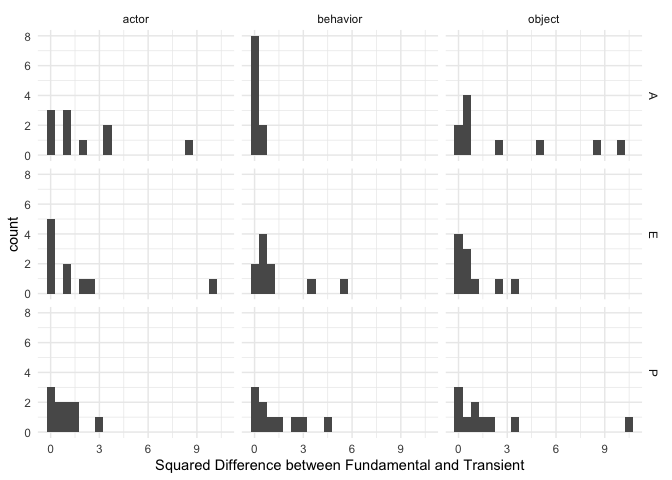
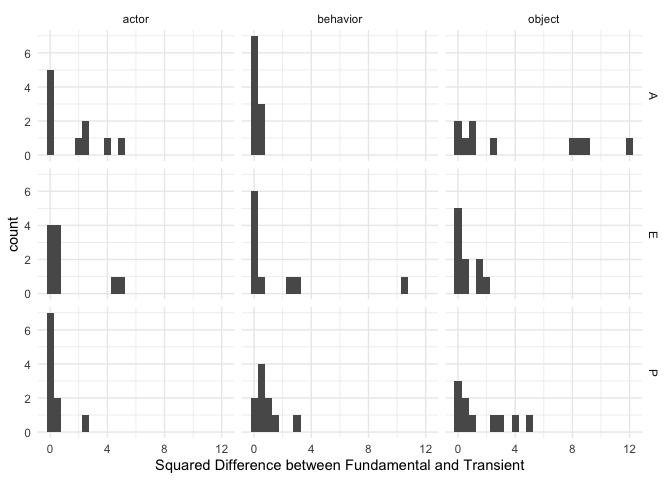
adding event column

diff --git a/README.md b/README.md
@@ -77,12 +77,12 @@ library(tidyverse)
 us_2015 <- epa_subset(dataset = "usfullsurveyor2015")
 
 #make a dataframe of events 
-set.seed(729)
+set.seed(369)
 events_wide <- tibble(actor = sample(us_2015$term[us_2015$component == "identity"], 10),
                  behavior = sample(us_2015$term[us_2015$component == "behavior"], 10),
                  object = sample(us_2015$term[us_2015$component == "identity"], 10))
 
-set.seed(729)
+set.seed(369)
 events_long <- tibble(id = rep(1:10, 3),
                       term = c(sample(us_2015$term[us_2015$component == "identity"], 10),
                                sample(us_2015$term[us_2015$component == "behavior"], 10),
@@ -92,24 +92,24 @@ events_long <- tibble(id = rep(1:10, 3),
 
 head(events_wide)
 #> # A tibble: 6 × 3
-#>   actor          behavior        object      
-#>   <chr>          <chr>           <chr>       
-#> 1 authority      hide_from       student     
-#> 2 mormon         dine_with       underdog    
-#> 3 alcoholic      fondle          peer        
-#> 4 civil_engineer fire_from_a_job ticket_taker
-#> 5 brain          boss            negotiator  
-#> 6 bookkeeper     rebel_against   black
+#>   actor      behavior  object                      
+#>   <chr>      <chr>     <chr>                       
+#> 1 landlady   fluster   introvert                   
+#> 2 virgin     shield    neurotic                    
+#> 3 chatterbox educate   myself_as_i_would_like_to_be
+#> 4 shop_clerk entreat   best_man                    
+#> 5 grind      aggravate machine_repairer            
+#> 6 asian_man  berate    chatterbox
 head(events_long)
 #> # A tibble: 6 × 3
 #>      id term      element 
 #>   <int> <chr>     <chr>   
-#> 1     1 authority actor   
-#> 2     1 hide_from behavior
-#> 3     1 student   object  
-#> 4     2 mormon    actor   
-#> 5     2 dine_with behavior
-#> 6     2 underdog  object
+#> 1     1 landlady  actor   
+#> 2     1 fluster   behavior
+#> 3     1 introvert object  
+#> 4     2 virgin    actor   
+#> 5     2 shield    behavior
+#> 6     2 neurotic  object
 ```
 
 The next step is to augment your events with the corresponding EPA
@@ -130,15 +130,15 @@ analysis_df <- reshape_events_df(df = events_wide,
 #> Joining, by = c("term", "component")
 
 head(analysis_df)
-#> # A tibble: 6 × 6
-#>   event_id element  term      component dimension estimate
-#>      <int> <chr>    <chr>     <chr>     <chr>        <dbl>
-#> 1        1 actor    authority identity  E             0.7 
-#> 2        1 actor    authority identity  P             2.99
-#> 3        1 actor    authority identity  A             0.85
-#> 4        1 behavior hide_from behavior  E            -0.82
-#> 5        1 behavior hide_from behavior  P            -0.86
-#> 6        1 behavior hide_from behavior  A            -1.37
+#> # A tibble: 6 × 7
+#>   event_id event                      element term  component dimension estimate
+#>      <int> <chr>                      <chr>   <chr> <chr>     <chr>        <dbl>
+#> 1        1 landlady fluster introvert actor   land… identity  E             0.08
+#> 2        1 landlady fluster introvert actor   land… identity  P             1.68
+#> 3        1 landlady fluster introvert actor   land… identity  A             0.59
+#> 4        1 landlady fluster introvert behavi… flus… behavior  E            -0.32
+#> 5        1 landlady fluster introvert behavi… flus… behavior  P             1.2 
+#> 6        1 landlady fluster introvert behavi… flus… behavior  A             0.81
 
 analysis_df <- reshape_events_df(df = events_long,
                                  df_format = "long",
@@ -148,15 +148,16 @@ analysis_df <- reshape_events_df(df = events_long,
 #> Joining, by = c("term", "component")
 
 head(analysis_df)
-#> # A tibble: 6 × 6
-#>   term      element  component event_id dimension estimate
-#>   <chr>     <chr>    <chr>        <int> <chr>        <dbl>
-#> 1 authority actor    identity         1 E             0.7 
-#> 2 authority actor    identity         1 P             2.99
-#> 3 authority actor    identity         1 A             0.85
-#> 4 hide_from behavior behavior         1 E            -0.82
-#> 5 hide_from behavior behavior         1 P            -0.86
-#> 6 hide_from behavior behavior         1 A            -1.37
+#> # A tibble: 6 × 7
+#> # Groups:   event_id [1]
+#>   term     element  component event_id event                  dimension estimate
+#>   <chr>    <chr>    <chr>        <int> <chr>                  <chr>        <dbl>
+#> 1 landlady actor    identity         1 landlady fluster intr… E             0.08
+#> 2 landlady actor    identity         1 landlady fluster intr… P             1.68
+#> 3 landlady actor    identity         1 landlady fluster intr… A             0.59
+#> 4 fluster  behavior behavior         1 landlady fluster intr… E            -0.32
+#> 5 fluster  behavior behavior         1 landlady fluster intr… P             1.2 
+#> 6 fluster  behavior behavior         1 landlady fluster intr… A             0.81
 ```
 
 After reshaping your events, you now have a dataframe with the
@@ -178,7 +179,7 @@ us2010 equation averaged across genders to match the dictionary.
 
 ``` r
 nested_analysis_df <- analysis_df %>% 
-                      group_by(event_id) %>% 
+                      group_by(event_id, event) %>% 
                       nest() %>% 
                       mutate(eq_info = "us2010_average")
 ```
@@ -191,26 +192,24 @@ information inside the nested dataframe.
 
 ``` r
 results_df <- nested_analysis_df %>% 
-              mutate(deflection = map2(data, eq_info, get_deflection))
+              mutate(deflection = map2_dbl(data, eq_info, get_deflection))
 
-results_df %>% unnest() %>% select(event_id, term, deflection) %>% distinct()
-#> Warning: `cols` is now required when using unnest().
-#> Please use `cols = c(data, deflection)`
-#> # A tibble: 30 × 3
-#> # Groups:   event_id [10]
-#>    event_id term           deflection
-#>       <int> <chr>               <dbl>
-#>  1        1 authority           13.3 
-#>  2        1 hide_from           13.3 
-#>  3        1 student             13.3 
-#>  4        2 mormon               5.06
-#>  5        2 dine_with            5.06
-#>  6        2 underdog             5.06
-#>  7        3 alcoholic            9.00
-#>  8        3 fondle               9.00
-#>  9        3 peer                 9.00
-#> 10        4 civil_engineer      13.0 
-#> # … with 20 more rows
+results_df %>% select(event, deflection)
+#> Adding missing grouping variables: `event_id`
+#> # A tibble: 10 × 3
+#> # Groups:   event_id, event [10]
+#>    event_id event                                           deflection
+#>       <int> <chr>                                                <dbl>
+#>  1        1 landlady fluster introvert                           2.18 
+#>  2        2 virgin shield neurotic                               6.93 
+#>  3        3 chatterbox educate myself_as_i_would_like_to_be     20.5  
+#>  4        4 shop_clerk entreat best_man                          0.994
+#>  5        5 grind aggravate machine_repairer                    17.1  
+#>  6        6 asian_man berate chatterbox                         20.9  
+#>  7        7 crybaby harass sleuth                               19.8  
+#>  8        8 street_musician glorify mugger                       1.86 
+#>  9        9 chaplain chastise scoundrel                         22.8  
+#> 10       10 artist like newcomer                                12.2
 ```
 
 ### Deflection
@@ -236,21 +235,23 @@ nested_analysis_df %>%
     unnest(trans_imp) %>% 
     mutate(difference = estimate - trans_imp,
            sqd_difference = difference^2) %>% 
-    group_by(event_id) %>% 
+    group_by(event_id, event) %>% 
     summarise(deflection = sum(sqd_difference))
-#> # A tibble: 10 × 2
-#>    event_id deflection
-#>       <int>      <dbl>
-#>  1        1      13.3 
-#>  2        2       5.06
-#>  3        3       9.00
-#>  4        4      13.0 
-#>  5        5      37.1 
-#>  6        6      13.2 
-#>  7        7      12.4 
-#>  8        8      23.7 
-#>  9        9       2.51
-#> 10       10       2.43
+#> `summarise()` has grouped output by 'event_id'. You can override using the `.groups` argument.
+#> # A tibble: 10 × 3
+#> # Groups:   event_id [10]
+#>    event_id event                                           deflection
+#>       <int> <chr>                                                <dbl>
+#>  1        1 landlady fluster introvert                           2.18 
+#>  2        2 virgin shield neurotic                               6.93 
+#>  3        3 chatterbox educate myself_as_i_would_like_to_be     20.5  
+#>  4        4 shop_clerk entreat best_man                          0.994
+#>  5        5 grind aggravate machine_repairer                    17.1  
+#>  6        6 asian_man berate chatterbox                         20.9  
+#>  7        7 crybaby harass sleuth                               19.8  
+#>  8        8 street_musician glorify mugger                       1.86 
+#>  9        9 chaplain chastise scoundrel                         22.8  
+#> 10       10 artist like newcomer                                12.2
 ```
 
 ### Element Deflection
@@ -279,30 +280,30 @@ close as possible to the fundamental sentiments. The function
 nested_analysis_df %>% 
   mutate(opt_beh = map2(data, eq_info, optimal_behavior)) %>% 
   unnest(opt_beh)
-#> # A tibble: 20 × 7
-#> # Groups:   event_id [10]
-#>    event_id data             eq_info          opt_E   opt_P  opt_A term  
-#>       <int> <list>           <chr>            <dbl>   <dbl>  <dbl> <chr> 
-#>  1        1 <tibble [9 × 5]> us2010_average  1.48    1.88    1.64  actor 
-#>  2        1 <tibble [9 × 5]> us2010_average  1.76   -0.0444  0.593 object
-#>  3        2 <tibble [9 × 5]> us2010_average -0.112   0.510  -0.483 actor 
-#>  4        2 <tibble [9 × 5]> us2010_average -0.135   0.0444 -0.251 object
-#>  5        3 <tibble [9 × 5]> us2010_average -0.491  -1.67    1.17  actor 
-#>  6        3 <tibble [9 × 5]> us2010_average  0.799   1.43    0.947 object
-#>  7        4 <tibble [9 × 5]> us2010_average  2.08    1.13    0.387 actor 
-#>  8        4 <tibble [9 × 5]> us2010_average  0.271   0.462   0.628 object
-#>  9        5 <tibble [9 × 5]> us2010_average  4.10    2.11    2.65  actor 
-#> 10        5 <tibble [9 × 5]> us2010_average  3.02    1.78    1.90  object
-#> 11        6 <tibble [9 × 5]> us2010_average  1.97   -0.175  -1.39  actor 
-#> 12        6 <tibble [9 × 5]> us2010_average  0.0478  1.79    0.322 object
-#> 13        7 <tibble [9 × 5]> us2010_average  0.0677  0.0705 -0.454 actor 
-#> 14        7 <tibble [9 × 5]> us2010_average -1.28   -0.507   0.736 object
-#> 15        8 <tibble [9 × 5]> us2010_average  2.30    1.20    0.236 actor 
-#> 16        8 <tibble [9 × 5]> us2010_average  0.846   0.955   3.08  object
-#> 17        9 <tibble [9 × 5]> us2010_average  0.998   1.16    1.24  actor 
-#> 18        9 <tibble [9 × 5]> us2010_average  0.868   0.308   1.27  object
-#> 19       10 <tibble [9 × 5]> us2010_average  1.13    0.528   0.378 actor 
-#> 20       10 <tibble [9 × 5]> us2010_average  0.661   0.894   0.716 object
+#> # A tibble: 20 × 8
+#> # Groups:   event_id, event [10]
+#>    event_id event               data     eq_info     opt_E   opt_P   opt_A term 
+#>       <int> <chr>               <list>   <chr>       <dbl>   <dbl>   <dbl> <chr>
+#>  1        1 landlady fluster i… <tibble… us2010_a…  0.784   1.53    0.0992 actor
+#>  2        1 landlady fluster i… <tibble… us2010_a…  0.393  -0.299  -1.94   obje…
+#>  3        2 virgin shield neur… <tibble… us2010_a…  0.605   0.733  -1.05   actor
+#>  4        2 virgin shield neur… <tibble… us2010_a… -0.983  -0.217   0.225  obje…
+#>  5        3 chatterbox educate… <tibble… us2010_a… -0.0298 -0.274   2.78   actor
+#>  6        3 chatterbox educate… <tibble… us2010_a…  1.37    2.59    1.58   obje…
+#>  7        4 shop_clerk entreat… <tibble… us2010_a…  0.583   0.0312  0.319  actor
+#>  8        4 shop_clerk entreat… <tibble… us2010_a…  0.784   1.60    0.431  obje…
+#>  9        5 grind aggravate ma… <tibble… us2010_a…  0.201  -0.622   0.819  actor
+#> 10        5 grind aggravate ma… <tibble… us2010_a…  0.753   2.12    0.741  obje…
+#> 11        6 asian_man berate c… <tibble… us2010_a…  1.56   -0.0484  0.398  actor
+#> 12        6 asian_man berate c… <tibble… us2010_a…  0.299   1.47    2.81   obje…
+#> 13        7 crybaby harass sle… <tibble… us2010_a…  1.67   -0.889   1.70   actor
+#> 14        7 crybaby harass sle… <tibble… us2010_a…  0.102   0.467  -1.75   obje…
+#> 15        8 street_musician gl… <tibble… us2010_a… -0.0732 -0.114   1.62   actor
+#> 16        8 street_musician gl… <tibble… us2010_a… -1.21    0.234   0.688  obje…
+#> 17        9 chaplain chastise … <tibble… us2010_a…  1.59    1.19   -0.385  actor
+#> 18        9 chaplain chastise … <tibble… us2010_a…  0.359   0.170   1.77   obje…
+#> 19       10 artist like newcom… <tibble… us2010_a… -0.411   1.04   -0.696  actor
+#> 20       10 artist like newcom… <tibble… us2010_a…  0.0461  0.303  -1.33   obje…
 ```
 
 ### Actor and Object Reidentification
@@ -317,20 +318,20 @@ nested_analysis_df %>%
   mutate(new_actor_id = map2(data, eq_info, reidentify_actor),
          new_object_id = map2(data, eq_info, reidentify_object)) %>% 
   unnest(new_actor_id)
-#> # A tibble: 10 × 7
-#> # Groups:   event_id [10]
-#>    event_id data             eq_info              E      P      A new_object_id 
-#>       <int> <list>           <chr>            <dbl>  <dbl>  <dbl> <list>        
-#>  1        1 <tibble [9 × 5]> us2010_average -1.40   -1.07  -1.53  <tibble [1 × …
-#>  2        2 <tibble [9 × 5]> us2010_average -0.0157  0.919 -0.313 <tibble [1 × …
-#>  3        3 <tibble [9 × 5]> us2010_average  0.126   0.710 -0.169 <tibble [1 × …
-#>  4        4 <tibble [9 × 5]> us2010_average -2.72    2.15   1.33  <tibble [1 × …
-#>  5        5 <tibble [9 × 5]> us2010_average -2.99    1.62   2.12  <tibble [1 × …
-#>  6        6 <tibble [9 × 5]> us2010_average  0.0895  1.75   2.13  <tibble [1 × …
-#>  7        7 <tibble [9 × 5]> us2010_average -0.0565  2.73   1.58  <tibble [1 × …
-#>  8        8 <tibble [9 × 5]> us2010_average -3.57    1.73   3.15  <tibble [1 × …
-#>  9        9 <tibble [9 × 5]> us2010_average  1.33    0.803 -0.694 <tibble [1 × …
-#> 10       10 <tibble [9 × 5]> us2010_average  1.78    1.66  -0.394 <tibble [1 × …
+#> # A tibble: 10 × 8
+#> # Groups:   event_id, event [10]
+#>    event_id event           data     eq_info        E     P      A new_object_id
+#>       <int> <chr>           <list>   <chr>      <dbl> <dbl>  <dbl> <list>       
+#>  1        1 landlady flust… <tibble… us2010_a…  0.275 1.27   1.06  <tibble [1 ×…
+#>  2        2 virgin shield … <tibble… us2010_a…  0.262 2.65   1.03  <tibble [1 ×…
+#>  3        3 chatterbox edu… <tibble… us2010_a…  1.15  2.79  -0.277 <tibble [1 ×…
+#>  4        4 shop_clerk ent… <tibble… us2010_a…  1.01  0.376 -0.250 <tibble [1 ×…
+#>  5        5 grind aggravat… <tibble… us2010_a… -1.69  0.645  2.70  <tibble [1 ×…
+#>  6        6 asian_man bera… <tibble… us2010_a… -2.90  0.756  2.86  <tibble [1 ×…
+#>  7        7 crybaby harass… <tibble… us2010_a…  0.480 0.428  2.35  <tibble [1 ×…
+#>  8        8 street_musicia… <tibble… us2010_a…  0.578 0.850  1.52  <tibble [1 ×…
+#>  9        9 chaplain chast… <tibble… us2010_a… -2.84  0.904  1.89  <tibble [1 ×…
+#> 10       10 artist like ne… <tibble… us2010_a… -1.02  1.60   0.185 <tibble [1 ×…
 ```
 
 ### Closest Term
@@ -349,19 +350,19 @@ nested_analysis_df %>%
   mutate(term = closest_term(E, P, A, dictionary_key = "usfullsurveyor2015", gender = "average",
                term_typ = "identity", num_terms = 1)) %>% 
   unnest(cols = c(term))
-#> # A tibble: 10 × 12
-#> # Groups:   event_id [10]
-#>    event_id data   eq_info        E      P      A new_object_id term_name term_E
-#>       <int> <list> <chr>      <dbl>  <dbl>  <dbl> <list>        <chr>      <dbl>
-#>  1        1 <tibb… us2010_… -1.40   -1.07  -1.53  <tibble [1 ×… miser      -1.61
-#>  2        2 <tibb… us2010_… -0.0157  0.919 -0.313 <tibble [1 ×… imam        0.17
-#>  3        3 <tibb… us2010_…  0.126   0.710 -0.169 <tibble [1 ×… conserva…   0.44
-#>  4        4 <tibb… us2010_… -2.72    2.15   1.33  <tibble [1 ×… gunman     -2.33
-#>  5        5 <tibb… us2010_… -2.99    1.62   2.12  <tibble [1 ×… slave_dr…  -3.28
-#>  6        6 <tibb… us2010_…  0.0895  1.75   2.13  <tibble [1 ×… jock        0.34
-#>  7        7 <tibb… us2010_… -0.0565  2.73   1.58  <tibble [1 ×… prosecut…   0.15
-#>  8        8 <tibb… us2010_… -3.57    1.73   3.15  <tibble [1 ×… No terms…  NA   
-#>  9        9 <tibb… us2010_…  1.33    0.803 -0.694 <tibble [1 ×… bank_tel…   1.27
-#> 10       10 <tibb… us2010_…  1.78    1.66  -0.394 <tibble [1 ×… scientist   1.89
-#> # … with 3 more variables: term_P <dbl>, term_A <dbl>, ssd <dbl>
+#> # A tibble: 10 × 13
+#> # Groups:   event_id, event [10]
+#>    event_id event     data   eq_info      E     P      A new_object_id term_name
+#>       <int> <chr>     <list> <chr>    <dbl> <dbl>  <dbl> <list>        <chr>    
+#>  1        1 landlady… <tibb… us2010…  0.275 1.27   1.06  <tibble [1 ×… grind    
+#>  2        2 virgin s… <tibb… us2010…  0.262 2.65   1.03  <tibble [1 ×… milliona…
+#>  3        3 chatterb… <tibb… us2010…  1.15  2.79  -0.277 <tibble [1 ×… judge    
+#>  4        4 shop_cle… <tibb… us2010…  1.01  0.376 -0.250 <tibble [1 ×… rancher  
+#>  5        5 grind ag… <tibb… us2010… -1.69  0.645  2.70  <tibble [1 ×… speeder  
+#>  6        6 asian_ma… <tibb… us2010… -2.90  0.756  2.86  <tibble [1 ×… madman   
+#>  7        7 crybaby … <tibb… us2010…  0.480 0.428  2.35  <tibble [1 ×… busybody 
+#>  8        8 street_m… <tibb… us2010…  0.578 0.850  1.52  <tibble [1 ×… flirt    
+#>  9        9 chaplain… <tibb… us2010… -2.84  0.904  1.89  <tibble [1 ×… bully    
+#> 10       10 artist l… <tibb… us2010… -1.02  1.60   0.185 <tibble [1 ×… mafioso  
+#> # … with 4 more variables: term_E <dbl>, term_P <dbl>, term_A <dbl>, ssd <dbl>
 ```
